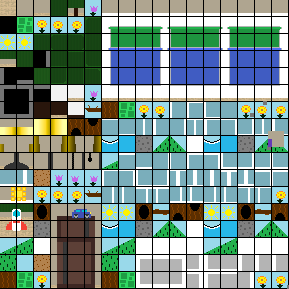
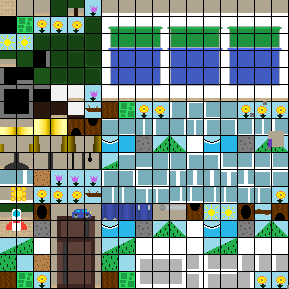
Added curtains to bedroom and living

Changed region(s): [[0.3426, 0.6851, 0.654, 0.7785]]

diff --git a/src/Tilesets/LivingRoomTileset.java b/src/Tilesets/LivingRoomTileset.java
@@ -3106,6 +3106,67 @@ public class LivingRoomTileset extends Tileset {
 
         mapTiles.add(rightSlopeTileT);
 
+        // right 45 degree slope
+        Frame curtain1 = new FrameBuilder(getSubImage(12, 6))
+                .withScale(tileScale)
+                .build();
+
+        MapTileBuilder curtain1T = new MapTileBuilder(curtain1)
+                .withTileType(TileType.PASSABLE);
+
+        mapTiles.add(curtain1T);
+
+        // right 45 degree slope
+        Frame curtain2 = new FrameBuilder(getSubImage(12, 7))
+                .withScale(tileScale)
+                .build();
+
+        MapTileBuilder curtain2T = new MapTileBuilder(curtain2)
+                .withTileType(TileType.PASSABLE);
+
+        mapTiles.add(curtain2T);
+
+        // right 45 degree slope
+        Frame curtain3 = new FrameBuilder(getSubImage(12, 8))
+                .withScale(tileScale)
+                .build();
+
+        MapTileBuilder curtain3T = new MapTileBuilder(curtain3)
+                .withTileType(TileType.PASSABLE);
+
+        mapTiles.add(curtain3T);
+
+        // right 45 degree slope
+        Frame curtain4 = new FrameBuilder(getSubImage(12, 9))
+                .withScale(tileScale)
+                .withImageEffect(ImageEffect.FLIP_HORIZONTAL)
+                .build();
+
+        MapTileBuilder curtain4T = new MapTileBuilder(curtain4)
+                .withTileType(TileType.PASSABLE);
+
+        mapTiles.add(curtain4T);
+
+        // right 45 degree slope
+        Frame curtain5 = new FrameBuilder(getSubImage(12, 9))
+                .withScale(tileScale)
+                .build();
+
+        MapTileBuilder curtain5T = new MapTileBuilder(curtain5)
+                .withTileType(TileType.PASSABLE);
+
+        mapTiles.add(curtain5T);
+
+        // right 45 degree slope
+        Frame curtain6 = new FrameBuilder(getSubImage(12, 10))
+                .withScale(tileScale)
+                .build();
+
+        MapTileBuilder curtain6T = new MapTileBuilder(curtain6)
+                .withTileType(TileType.PASSABLE);
+
+        mapTiles.add(curtain6T);
+
         return mapTiles;
     }
 }

diff --git a/src/Tilesets/CommonTileset.java b/src/Tilesets/CommonTileset.java
@@ -3217,6 +3217,67 @@ public class CommonTileset extends Tileset {
 
         mapTiles.add(emptyDoor2T);
 
+        // right 45 degree slope
+        Frame curtain1 = new FrameBuilder(getSubImage(2, 0))
+                .withScale(tileScale)
+                .build();
+
+        MapTileBuilder curtain1T = new MapTileBuilder(curtain1)
+                .withTileType(TileType.PASSABLE);
+
+        mapTiles.add(curtain1T);
+
+        // right 45 degree slope
+        Frame curtain2 = new FrameBuilder(getSubImage(2, 1))
+                .withScale(tileScale)
+                .build();
+
+        MapTileBuilder curtain2T = new MapTileBuilder(curtain2)
+                .withTileType(TileType.PASSABLE);
+
+        mapTiles.add(curtain2T);
+
+        // right 45 degree slope
+        Frame curtain3 = new FrameBuilder(getSubImage(2, 2))
+                .withScale(tileScale)
+                .build();
+
+        MapTileBuilder curtain3T = new MapTileBuilder(curtain3)
+                .withTileType(TileType.PASSABLE);
+
+        mapTiles.add(curtain3T);
+
+        // right 45 degree slope
+        Frame curtain4 = new FrameBuilder(getSubImage(2, 5))
+                .withScale(tileScale)
+                .withImageEffect(ImageEffect.FLIP_HORIZONTAL)
+                .build();
+
+        MapTileBuilder curtain4T = new MapTileBuilder(curtain4)
+                .withTileType(TileType.PASSABLE);
+
+        mapTiles.add(curtain4T);
+
+        // right 45 degree slope
+        Frame curtain5 = new FrameBuilder(getSubImage(2, 5))
+                .withScale(tileScale)
+                .build();
+
+        MapTileBuilder curtain5T = new MapTileBuilder(curtain5)
+                .withTileType(TileType.PASSABLE);
+
+        mapTiles.add(curtain5T);
+
+        // right 45 degree slope
+        Frame curtain6 = new FrameBuilder(getSubImage(2, 4))
+                .withScale(tileScale)
+                .build();
+
+        MapTileBuilder curtain6T = new MapTileBuilder(curtain6)
+                .withTileType(TileType.PASSABLE);
+
+        mapTiles.add(curtain6T);
+
         return mapTiles;
     }
 }
